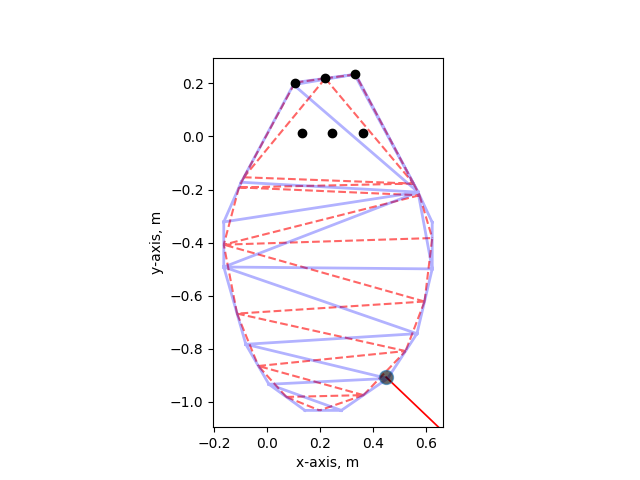
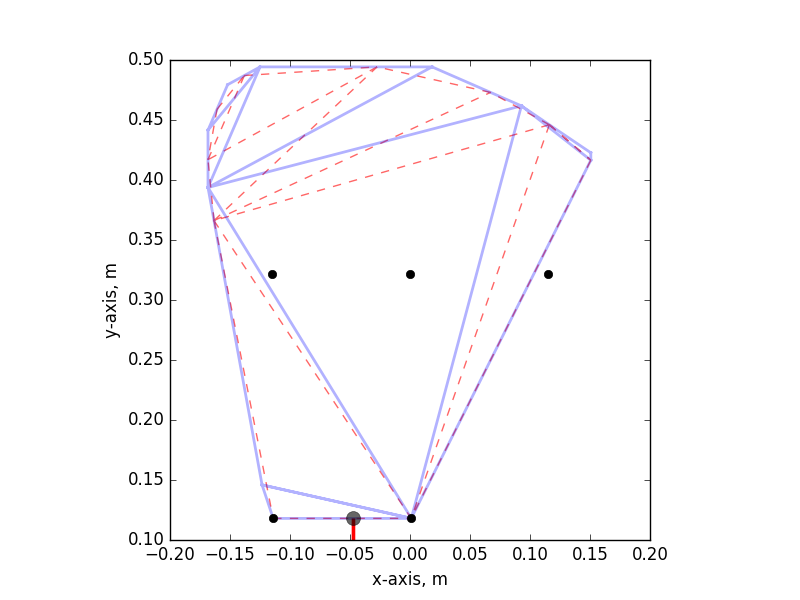
validating stability; trying to make robot walk forward with wall walking configuration

Changed region(s): [[0.125, 0.0625, 0.8438, 1.0], [0.6875, 0.3125, 0.7188, 0.4062], [0.625, 0.8125, 0.6562, 0.8438]]

diff --git a/corin_description/scripts/move_leg.py b/corin_description/scripts/move_leg.py
@@ -1,0 +1,87 @@
+#!/usr/bin/env python
+
+## Sets Gazebo Corin model to default world position in nominal standing up position
+
+import rospy, sys, os, time
+import string
+import warnings
+import tf
+from math import pi
+import numpy as np
+
+from gazebo_msgs.srv import *
+from gazebo_ros import gazebo_interface
+from std_srvs.srv import Empty
+from gazebo_msgs.msg import ModelState
+from geometry_msgs.msg import Pose
+from geometry_msgs.msg import Twist
+from std_msgs.msg import Float64
+from sensor_msgs.msg import JointState
+
+class LegMove:
+	def __init__(self):
+		rospy.init_node('LegMover') 		# Initialises node
+
+		self.model_name = 'corin'
+		self.joint_pub_ = {}
+		self.joint_states = None
+
+		self.initialise_topics()
+
+	def initialise_topics(self):
+
+		self.joint_sub_ = rospy.Subscriber('/corin/joint_states', JointState, self.joint_callback, queue_size=1)
+
+		self.joint_pub_[0]  = rospy.Publisher(self.model_name + '/lf_q1_joint/command', Float64, queue_size=1)
+		self.joint_pub_[1]  = rospy.Publisher(self.model_name + '/lf_q2_joint/command', Float64, queue_size=1)
+		self.joint_pub_[2]  = rospy.Publisher(self.model_name + '/lf_q3_joint/command', Float64, queue_size=1)
+		self.joint_pub_[3]  = rospy.Publisher(self.model_name + '/lm_q1_joint/command', Float64, queue_size=1)
+		self.joint_pub_[4]  = rospy.Publisher(self.model_name + '/lm_q2_joint/command', Float64, queue_size=1)
+		self.joint_pub_[5]  = rospy.Publisher(self.model_name + '/lm_q3_joint/command', Float64, queue_size=1)
+		self.joint_pub_[6]  = rospy.Publisher(self.model_name + '/lr_q1_joint/command', Float64, queue_size=1)
+		self.joint_pub_[7]  = rospy.Publisher(self.model_name + '/lr_q2_joint/command', Float64, queue_size=1)
+		self.joint_pub_[8]  = rospy.Publisher(self.model_name + '/lr_q3_joint/command', Float64, queue_size=1)
+		self.joint_pub_[9]  = rospy.Publisher(self.model_name + '/rf_q1_joint/command', Float64, queue_size=1)
+		self.joint_pub_[10] = rospy.Publisher(self.model_name + '/rf_q2_joint/command', Float64, queue_size=1)
+		self.joint_pub_[11] = rospy.Publisher(self.model_name + '/rf_q3_joint/command', Float64, queue_size=1)
+		self.joint_pub_[12] = rospy.Publisher(self.model_name + '/rm_q1_joint/command', Float64, queue_size=1)
+		self.joint_pub_[13] = rospy.Publisher(self.model_name + '/rm_q2_joint/command', Float64, queue_size=1)
+		self.joint_pub_[14] = rospy.Publisher(self.model_name + '/rm_q3_joint/command', Float64, queue_size=1)
+		self.joint_pub_[15] = rospy.Publisher(self.model_name + '/rr_q1_joint/command', Float64, queue_size=1)
+		self.joint_pub_[16] = rospy.Publisher(self.model_name + '/rr_q2_joint/command', Float64, queue_size=1)
+		self.joint_pub_[17] = rospy.Publisher(self.model_name + '/rr_q3_joint/command', Float64, queue_size=1)
+
+		rospy.sleep(1.0)
+
+	def joint_callback(self, msg):
+
+		self.joint_states = msg
+
+	def set_leg_pose(self, leg_move, q):
+		# Publish joint states
+		# print self.joint_states.position
+		idx = leg_move*3
+		intv = 100
+		qc = np.array(self.joint_states.position[idx:idx+3])
+		diff = (qd - qc)/50
+
+		for i in range(intv):
+			qnow = qc + diff*i
+			for j in range(3):
+				self.joint_pub_[idx+j].publish(qnow[j])
+			rospy.sleep(0.025)
+
+if __name__ == "__main__":
+
+	r_ = LegMove()
+
+	leg_move = 3
+	qd = np.array([-0.6981317,  2.5, -2.])
+
+	# if len(sys.argv) > 1:
+	# 	if sys.argv[1] == 'fault':
+	# 		qd[13] = 0.614#0.2678
+	# 		qd[14] = -2.404#-2.212
+
+	r_.set_leg_pose(leg_move, qd)
+	

diff --git a/corin_control/src/robot_controller.py b/corin_control/src/robot_controller.py
@@ -20,9 +20,9 @@ class RobotController(CorinManager):
 		
 		# Enable/disable controllers
 		self.ctrl_base_admittance = False 	# base impedance controller - fault
-		self.ctrl_base_tracking   = False 	# base tracking controller
-		self.ctrl_leg_admittance  = False 	# leg impedance controller
-		self.ctrl_contact_detect  = False 	# switch gait for early contact detection
+		self.ctrl_base_tracking   = True 	# base tracking controller
+		self.ctrl_leg_admittance  = True 	# leg impedance controller
+		self.ctrl_contact_detect  = True 	# switch gait for early contact detection
 
 	def main_controller(self, motion_plan=None):
 
@@ -87,7 +87,7 @@ class RobotController(CorinManager):
 		# State machine loading/unloading timing parameters
 		tload = 1						# loading counter
 		iload = int(LOAD_T/CTR_INTV) 	# no. of intervals for loading
-		hload = int(1./CTR_INTV)		# no. of intervals for initial holding
+		hload = int(4./CTR_INTV)		# no. of intervals for initial holding
 		# Force Distribution variables
 		fmax_lim  = [F_MAX]*6			# maximum force array
 		init_flim = [F_MAX]*6			# current force for linear decrease in unloading
@@ -100,7 +100,10 @@ class RobotController(CorinManager):
 		s_cnt = 1
 		# Counts per gait phase interval
 		iahead = int(GAIT_TPHASE/CTR_INTV)
-		
+		## TEMP: initial leg position
+		qstart = self.Robot.Leg[3].Joint.qpc
+		qdiff = (np.array([-0.6981317,  2.5, -1.22860141]) - qstart)/float(hload)
+
 		## Cycle through trajectory points until complete
 		i = 1 		# skip first point since spline has zero initial differential conditions
 		while (i != path_length and not rospy.is_shutdown()):
@@ -419,7 +422,7 @@ class RobotController(CorinManager):
 					self.Robot.Gait.support_mode()
 				
 				tload += 1
-
+				print 'hload ', hload
 				if tload == hload+1 and motion_plan:
 					s_cnt = 0
 					if self.Robot.support_mode:
@@ -481,9 +484,15 @@ class RobotController(CorinManager):
 			# print 'qn: ', np.round(self.Robot.qc.position[12:15],4)
 			# cout3(self.Robot.Leg[4].Joint.qpc)
 			# print '======================================='
-			qd.xp[9 ] = -0.68	# 9  15
-			qd.xp[10] = 2.5		# 10 16
-			qd.xp[11] = -2.		# 11 17
+			## TEMP: stability check
+			# if state_machine == 'hold':
+			# 	qtemp = qstart + qdiff*tload
+			# qd.xp[9 ] = qtemp[0]
+			# qd.xp[10] = qtemp[1]
+			# qd.xp[11] = qtemp[2]
+			# qd.xp[9 ] = -0.68	# 9  15
+			# qd.xp[10] = 2.5		# 10 16
+			# qd.xp[11] = -2.		# 11 17
 			# print 'CoM: ', np.round(self.Robot.Rbdl.com.flatten(),4)
 			## Data logging & publishing
 			qlog = self.set_log_setpoint(v3cp, v3cv, xa_d, v3wp, v3wv, wa_d, qd, joint_torq, force_dist)

diff --git a/corin_control/src/corin_control/test_stabilipy.py b/corin_control/src/corin_control/test_stabilipy.py
@@ -7,7 +7,7 @@ from scipy.spatial import ConvexHull, Delaunay
 math = stabilipy.Math()
 # from math_tools import Math
 # mass, dimension, gravity, radius, force limit, robust sphere (not enforced)
-poly = stabilipy.StabilityPolygon(5.0, 2, -9.81, 2., 1., -1, 0.)
+poly = stabilipy.StabilityPolygon(4.53, 2, -9.81, 2., 1., -1, 0.)
 poly.display_final = True
 ## Nominal Stance - Ground Walking
 # pos = [ [ 0.25,  0.25, 0.0], 
@@ -53,8 +53,15 @@ normals = [[[0.0, 0.0, 1.0]], [[0.0, 0.0, 1.0]], [[0.0, 0.0, 1.0]], [[0.0, 0.0, 
 # 			[[0.0, 0.0, 1.0]], 
 # 			[[0.0, 0.0, 1.0]]]#, 
 # 			# [[0.0, 0.0, 1.0]]]
-pos = [[0.333, 0.234, -0.0], [0.219, 0.219, 0.0], [0.105, 0.203, -0.0], [0.362, 0.012, 0.707], [0.246, 0.012, 0.722], [0.13, 0.012, 0.737]]
-normals = [[[0.0, 0.0, 1.0]], [[0.0, 0.0, 1.0]], [[0.0, 0.0, 1.0]], [[0.0, 1.0, 0.0]], [[0.0, 1.0, 0.0]], [[0.0, 1.0, 0.0]]]
+## Wall walking - start of concave corner
+# pos = [[0.333, 0.234, -0.0], [0.219, 0.219, 0.0], [0.105, 0.203, -0.0], [0.362, 0.012, 0.707], [0.246, 0.012, 0.722], [0.13, 0.012, 0.737]]
+# normals = [[[0.0, 0.0, 1.0]], [[0.0, 0.0, 1.0]], [[0.0, 0.0, 1.0]], [[0.0, 1.0, 0.0]], [[0.0, 1.0, 0.0]], [[0.0, 1.0, 0.0]]]
+## Wall walking - gz_ww_01
+pos = [[0.115, 0.322, 0.663], [0.0, 0.322, 0.662], [-0.115, 0.322, 0.662], [0.001, 0.118, -0.004], [-0.114, 0.118, -0.004]]
+normals = [[[0.0, -1.0, 0.0]], [[0.0, -1.0, 0.0]], [[0.0, -1.0, 0.0]], [[0.0, 0.0, 1.0]], [[0.0, 0.0, 1.0]]]
+## Wall walking - gz_ww_21
+pos = [[0.117, 0.322, 0.602], [0.002, 0.323, 0.602], [-0.113, 0.323, 0.602], [-0.001, -0.02, -0.005], [-0.116, -0.02, -0.005]]
+normals = [[[0.0, -1.0, 0.0]], [[0.0, -1.0, 0.0]], [[0.0, -1.0, 0.0]], [[0.0, 0.0, 1.0]], [[0.0, 0.0, 1.0]]]
 
 ## No solution - primal infeasible
 # pos = [[0.3738, 0.5781, 0.5], [0.2813, 0.5562, 0.5], [0.9174, 0.2989, 0.5], [0.9173, 0.153, 0.5], [0.9123, 0.011, 0.5]]
@@ -83,7 +90,7 @@ normals = [[[0.0, 0.0, 1.0]], [[0.0, 0.0, 1.0]], [[0.0, 0.0, 1.0]], [[0.0, 1.0, 
 # normals[0] = n4.tolist()
 # normals[3] = n4.tolist()
 # friction coefficient
-mu = 0.8
+mu = 0.5
 contacts = [stabilipy.Contact(mu, np.array(p).T,
                               stabilipy.utils.normalize(np.array(n).T))
             for p, n in zip(pos, normals)]

diff --git a/corin_control/src/corin_control/test_force.py b/corin_control/src/corin_control/test_force.py
@@ -10,13 +10,15 @@ from constant import *
 ## Test Data 01
 # normals = [[[0.0, -1.0, 0.0]], [[0.0, -1.0, 0.0]], [[0.0, 1.0, 0.0]], [[0.0, 1.0, 0.0]]]
 # normals = [[[0.0, -0.0, 1.0]], [[0.0, 1.0, 0.0]], [[0.0, 0.0, 1.0]], [[0.0, 0.0, 1.0]], [[0.0, 0.0, 1.0]]]
-normals = [[[0.0, -1.0, 0.0]], [[0.0, -1.0, 0.0]], [[0.0, 1.0, 0.0]], [[0.0, 1.0, 0.0]], [[0.0, 1.0, 0.0]]]
-pos = [	[-0.22561972,  0.30945383, -0.00034246], 
-			[-0.31952697,  0.3094684 , -0.00034287], 
-			[ 4.60182659e-01,  4.04583972e-02, -3.42660774e-04], 
-			[ 2.66755852e-01, -3.50555585e-01, -3.42615948e-04], 
-			[ 1.27600822e-01, -3.50571928e-01, -3.42023479e-04]]
-gphase = [1,0,0,0,0,0]
+# normals = [[[0.0, -1.0, 0.0]], [[0.0, -1.0, 0.0]], [[0.0, 1.0, 0.0]], [[0.0, 1.0, 0.0]], [[0.0, 1.0, 0.0]]]
+# pos = [	[-0.22561972,  0.30945383, -0.00034246], 
+# 			[-0.31952697,  0.3094684 , -0.00034287], 
+# 			[ 4.60182659e-01,  4.04583972e-02, -3.42660774e-04], 
+# 			[ 2.66755852e-01, -3.50555585e-01, -3.42615948e-04], 
+# 			[ 1.27600822e-01, -3.50571928e-01, -3.42023479e-04]]
+pos = [[0.117, 0.322, 0.602], [0.002, 0.323, 0.602], [-0.113, 0.323, 0.602], [-0.001, -0.02, -0.005], [-0.116, -0.02, -0.005]]
+normals = [[[0.0, -1.0, 0.0]], [[0.0, -1.0, 0.0]], [[0.0, -1.0, 0.0]], [[0.0, 0.0, 1.0]], [[0.0, 0.0, 1.0]]]
+gphase = [0,0,0,1,0,0]
 
 ## Test Data 02
 # normals = [[[0.0, -1.0, 0.0]], [[0.0, -1.0, 0.0]], [[0.0, 1.0, 0.0]], [[0.0, 1.0, 0.0]]]
@@ -75,8 +77,8 @@ def Rand(num, x, y):
 					1e-2*random.randint(y[0], y[1]), 0.])
 	return res
 npoints = 1000 	# no. of elements
-x = [-70, 70]
-y = [-100, 100]
+x = [-40, 40]
+y = [-10, 100]
 com_points = Rand(npoints, x, y)
 
 ptrue  = []

diff --git a/corin_description/scripts/robot_default.py b/corin_description/scripts/robot_default.py
@@ -163,18 +163,19 @@ if __name__ == "__main__":
 
 		elif sys.argv[1] == 'wall':
 			pose_x		= 0.0
-			pose_y		= 0.225
-			pose_z		= 0.385
-			pose_roll 	= 1.42
+			pose_y		= 0.16
+			pose_z		= 0.38
+			pose_roll 	= 1.22
 			pose_pitch 	= 0.
 			pose_yaw 	= 0.
 			qb = [pose_x, pose_y, pose_z, pose_roll, pose_pitch, pose_yaw]
-			qd = [	0.6981317,   0.6939246 , -2.03135032, 
-					0.       ,   0.6939246 , -2.03135032,
-				  	-0.6981317,  0.6939246 , -2.03135032, 
-					-0.6981317,  0.81969609, -1.22860141,
-				  	0.       ,   0.81969609, -1.22860141, 
-					0.6981317,   0.81969609, -1.22860141]
+			qd = [	0.6981317,  0.6939246 , -2.03135032, 
+					0.       ,  0.6939246 , -2.03135032,
+				  	-0.6981317, 0.6939246 , -2.03135032, 
+					# -0.6981317,  2.5, -2.,
+					-0.6981317, 0.81969609, -1.22860141,
+				  	0.       ,  0.81969609, -1.22860141, 
+					0.6981317,  0.81969609, -1.22860141]
 
 	r_.set_full_pose(qb, qd)
 	

diff --git a/corin_control/src/corin_control/stability_margin.py b/corin_control/src/corin_control/stability_margin.py
@@ -32,8 +32,8 @@ class StabilityMargin():
 	def compute_support_region(self, stack_world_X_foot, stack_normals):
 		""" Computes the stability region for a set of fixed contacts - Bretl2008 """
 
-		# print stack_world_X_foot
-		# print stack_normals
+		print stack_world_X_foot
+		print stack_normals
 		self.Poly.contacts = [stabilipy.Contact(SURFACE_FRICTION, np.array(p).T,
 								stabilipy.utils.normalize(np.array(n).T))
 								for p, n in zip(stack_world_X_foot, stack_normals)]

diff --git a/corin_control/src/corin_control/robot_class.py b/corin_control/src/corin_control/robot_class.py
@@ -339,7 +339,11 @@ class RobotState:
 			if foot_pos is None:
 				err_list[j], qpd, qvd, qad = self.Leg[j].tf_task_X_joint()
 			else:
-				err_list[j], qpd, qvd, qad = self.Leg[j].tf_task_X_joint(foot_pos[j*3:j*3+3])
+				## TEMP
+				if j == 3:
+					pass
+				else:
+					err_list[j], qpd, qvd, qad = self.Leg[j].tf_task_X_joint(foot_pos[j*3:j*3+3])
 			# if j == 4:
 			# 	qpd = np.array([0.,  6.12682006e-01,  -2.61484057e+00])
 

diff --git a/corin_control/src/robot_manager.py b/corin_control/src/robot_manager.py
@@ -621,7 +621,7 @@ class CorinManager:
 																0.,0.,0.,0.]).reshape(6,1)
 					self.Robot.P6d.world_X_base = self.Robot.P6c.world_X_base.copy()
 					self.Robot.XHc.update_world_X_base(self.Robot.P6c.world_X_base)
-					self.Robot.init_robot_stance()
+					self.Robot.init_robot_stance(STANCE_TYPE)
 
 				if self.interface != "robotis":
 					qd, tXj_error = self.Robot.task_X_joint()

diff --git a/corin_control/src/corin_control/kdl.py b/corin_control/src/corin_control/kdl.py
@@ -149,10 +149,10 @@ class KDL():
 			
 			return np.array([q1, q2, q3])
 		except ValueError, e:
-			print 'KDL-IK(): ', e
+			print 'KDL-IK(',leg_no,'): ', e
 			return None
 		except Exception, e:
-			print 'KDL-IK(): ', e
+			print 'KDL-IK(',leg_no,'): ', e
 			return None
 
 	def check_singularity(self, q=None):

diff --git a/corin_control/src/corin_control/constant.py b/corin_control/src/corin_control/constant.py
@@ -103,7 +103,7 @@ KPcom = np.array([1.0, 1.0, 1.0])*0.3	#1000. #
 KDcom = np.array([0.0, 0.0, 1.0])*0.015	#0.5
 KPang = np.array([1.0, 1.0, 1.0])*0.	#500.
 KDang = np.array([1.0, 1.0, 1.0])*0.	#0.5
-SURFACE_FRICTION = 1.0
+SURFACE_FRICTION = 0.5
 F_INC  = 0.1
 D_MOVE = 0.0001	# motion for leg to achieve contact
 

diff --git a/corin_control/src/corin_control/leg_class.py b/corin_control/src/corin_control/leg_class.py
@@ -210,7 +210,7 @@ class LegClass:
 		try:
 			for i in range(0,self.spline_length):
 				error, qpd, qvd, qad = self.tf_task_X_joint(self.xspline.xp[i],self.xspline.xv[i],self.xspline.xa[i])
-
+				
 				if (error == 0):
 					qt.append(i*CTR_INTV)
 					qp.append(qpd.tolist())
